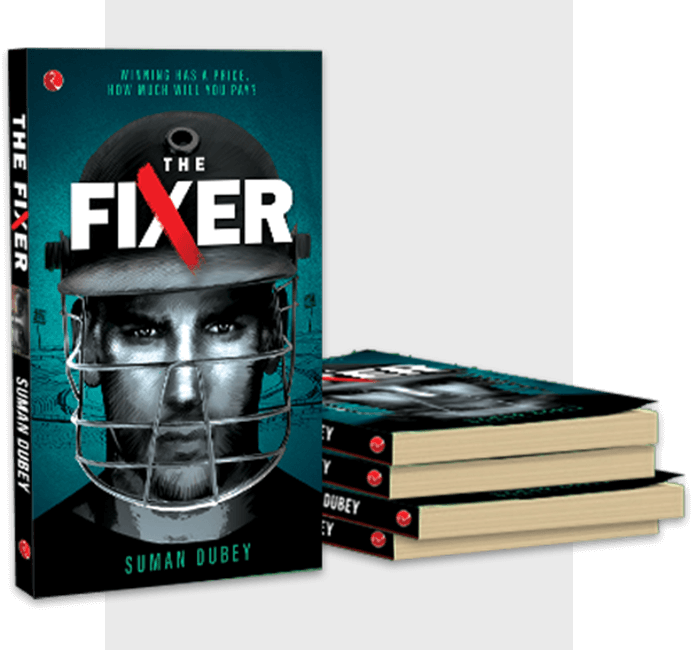
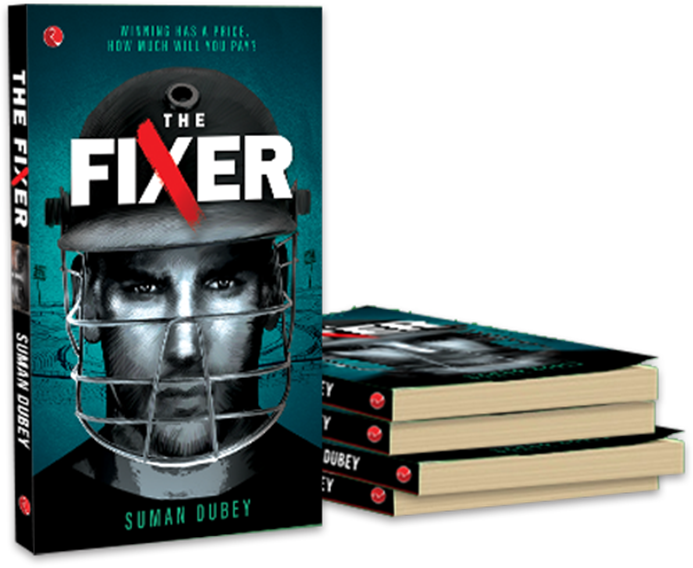
done with AOS

diff --git a/assets/css/style.min.css b/assets/css/style.min.css
@@ -1,2 +1,2 @@
-@import url("https://fonts.googleapis.com/css2?family=Montserrat:wght@400;600;700&display=swap");*{outline:none}html,body,div,span,applet,object,iframe,h1,h2,h3,h4,h5,h6,p,blockquote,pre,a,abbr,acronym,address,big,cite,code,del,dfn,em,img,ins,kbd,q,s,samp,small,strike,strong,sub,sup,tt,var,b,u,i,center,dl,dt,dd,ol,ul,li,fieldset,form,label,legend,table,caption,tbody,tfoot,thead,tr,th,td,article,aside,canvas,details,embed,figure,figcaption,footer,header,hgroup,menu,nav,output,ruby,section,summary,time,mark,audio,video{margin:0;padding:0;border:0;font-size:100%;font:inherit;vertical-align:baseline}article,aside,details,figcaption,figure,footer,header,hgroup,menu,nav,section{display:block}body{line-height:1}ol,ul{list-style:none}blockquote,q{quotes:none}blockquote:before,blockquote:after,q:before,q:after{content:"";content:none}table{border-collapse:collapse;border-spacing:0}.btn{position:relative;padding:14px 22px;background:#ffffff;border:1px solid #000000;border-left-width:4px;border-left-color:#ce1c23;border-radius:0;text-transform:uppercase;font-weight:700;font-size:12px;margin-bottom:16px;min-width:160px;letter-spacing:3px}.btn:hover{background:#ce1c23;border:1px solid #ce1c23;border-left-width:4px;color:#ffffff}.btn--transparent{background:transparent;color:#ffffff;border:1px solid #ffffff;border-left-width:4px}.btn--transparent:hover{background:#ffffff;border:1px solid #ffffff;border-left-width:4px;color:#000000}.font-small{font-size:14px}body{font-family:"Montserrat", sans-serif;color:#626262}h2{font-size:20px;font-weight:700;text-transform:uppercase}h3{font-size:18px}h4{font-size:16px}h5{font-size:14px}p{margin-bottom:1em;line-height:1.9}img{max-width:100%}.font-bold{font-weight:700}.letter-space-5{letter-spacing:3px}section{margin:30px 0}@media (min-width: 992px){section{margin:60px 0}}a,a:hover{color:inherit;text-decoration:none}.header{position:fixed;padding:20px 0;z-index:1;width:100%;transition:0.3s}.header__logo{display:block;width:100px}@media (min-width: 768px){.header__logo{width:160px}}.header.fixed{padding:10px 0;background:#000000}.header.fixed .header__logo{width:80px}@media (min-width: 768px){.header.fixed .header__logo{width:120px}}.header__hamburger{width:40px}@media (min-width: 992px){.header__hamburger{display:none}}.nav{display:none}@media (min-width: 992px){.nav{display:block}}.nav__list{display:flex;color:#ffffff}.nav__anchor{margin:0 15px;color:#ffffff;text-transform:uppercase;font-size:14px}.banner{position:relative}.banner__slider .slick-arrow{position:absolute;top:50%;transform:translateY(-50%);z-index:1;font-size:0;padding:0;width:30px;height:60px;border:none;outline:none}.banner__slider .slick-arrow.slick-prev{left:25px;background:url(../images/prev.png) no-repeat center/contain}.banner__slider .slick-arrow.slick-next{right:25px;background:url(../images/prev.png) no-repeat center/contain;transform:rotate(-180deg) translateY(30px)}.banner__slider .slick-dots{position:absolute;bottom:10px;left:50%;transform:translateX(-50%);display:flex;line-height:0}@media (min-width: 992px){.banner__slider .slick-dots{bottom:20px}}.banner__slider .slick-dots button{background:#ffffff;opacity:0.3;border:none;font-size:0;padding:0;width:12px;height:12px;margin:0 5px;border-radius:50%;outline:none}@media (min-width: 992px){.banner__slider .slick-dots button{width:15px;height:15px}}.banner__slider .slick-dots .slick-active button{opacity:1}.social{display:inline-block}.social__anchor{display:inline-block;background:url(../images/social-sprite.png) no-repeat;width:25px;height:25px;margin-right:5px;background-size:auto 70%}.social__anchor:last-child{margin-right:0}.social__anchor--facebook{background-position:8px}.social__anchor--instagram{background-position:-16px}.social__anchor--twitter{background-position:-40px}.social__anchor--linkdin{background-position:-68px}.review{background:url(../images/review-bg.jpg) no-repeat fixed center/cover;position:relative}.review__slider{margin-bottom:20px}.review__slider .slick-dots{position:absolute;bottom:-100px;left:50%;transform:translateX(-50%);display:flex;line-height:0}.review__slider .slick-dots button{background:#000000;border:none;font-size:0;padding:0;width:14px;height:14px;margin:0 6px;border-radius:50%;outline:none}.review__slider .slick-dots .slick-active button{background:#ce1c23}.review__subheading{line-height:1.6}.review__item{font-size:14px;background-color:#ffffff;border-radius:5px;padding:20px;margin:15px;filter:drop-shadow(0 0 4.5px rgba(193,193,193,0.66))}.review__thumb{width:80px;margin-bottom:10px}.review__author{font-weight:700;margin-bottom:1rem}.review__collon{font-size:42px;font-weight:bold;display:inline-block;margin-bottom:1rem;width:20px;height:20px}.media{background:#660004;color:#ffffff}.media__slider{display:flex;margin-bottom:40px}.media__slider .slick-arrow{position:absolute;top:50%;transform:translateY(-50%);z-index:1;font-size:0;padding:0;width:30px;height:60px;border:none;outline:none}.media__slider .slick-arrow.slick-prev{left:0px;background:url(../images/prev.png) no-repeat center/contain}.media__slider .slick-arrow.slick-next{right:0px;background:url(../images/prev.png) no-repeat center/contain;transform:rotate(-180deg) translateY(30px)}.media__subheading{letter-spacing:6px;margin-bottom:24px;text-transform:uppercase}.media__item{font-size:14px;margin:0 15px}.fixer__logo{width:180px}.fixer__heading{font-weight:600;letter-spacing:4px;text-transform:uppercase;color:#000000;line-height:1.4}.fixer__name{color:#000000;text-transform:uppercase;font-weight:700;font-size:16px;display:inline-block;border-bottom:1px solid;padding-bottom:15px;padding-right:10px}.buyfrom{display:flex;align-items:center}.buyfrom__list{padding-right:20px}.buyfrom__list:last-child{border-left:1px solid;transform:translateY(-8px);padding-left:20px}.buyfrom__icon{width:100px}.footer{border-top:1px solid #ffffff;background:#000000;color:#b6b6b6;font-size:14px;letter-spacing:2px;font-weight:bold}.footer-email{color:#b6b6b6}.rating__star{display:inline-block;background:url(../images/star-fill.png) no-repeat center/contain;width:16px;height:16px}.rating__star--unfill{background:url(../images/star-blank.png) no-repeat center/contain}
+@import url("https://fonts.googleapis.com/css2?family=Montserrat:wght@400;600;700&display=swap");*{outline:none}html,body,div,span,applet,object,iframe,h1,h2,h3,h4,h5,h6,p,blockquote,pre,a,abbr,acronym,address,big,cite,code,del,dfn,em,img,ins,kbd,q,s,samp,small,strike,strong,sub,sup,tt,var,b,u,i,center,dl,dt,dd,ol,ul,li,fieldset,form,label,legend,table,caption,tbody,tfoot,thead,tr,th,td,article,aside,canvas,details,embed,figure,figcaption,footer,header,hgroup,menu,nav,output,ruby,section,summary,time,mark,audio,video{margin:0;padding:0;border:0;font-size:100%;font:inherit;vertical-align:baseline}article,aside,details,figcaption,figure,footer,header,hgroup,menu,nav,section{display:block}body{line-height:1}ol,ul{list-style:none}blockquote,q{quotes:none}blockquote:before,blockquote:after,q:before,q:after{content:"";content:none}table{border-collapse:collapse;border-spacing:0}.btn{position:relative;padding:14px 22px;background:#ffffff;border:1px solid #000000;border-left-width:4px;border-left-color:#ce1c23;border-radius:0;text-transform:uppercase;font-weight:700;font-size:12px;margin-bottom:16px;min-width:160px;letter-spacing:3px}.btn:hover{background:#ce1c23;border:1px solid #ce1c23;border-left-width:4px;color:#ffffff}.btn--transparent{background:transparent;color:#ffffff;border:1px solid #ffffff;border-left-width:4px}.btn--transparent:hover{background:#ffffff;border:1px solid #ffffff;border-left-width:4px;color:#000000}.font-small{font-size:14px}body{font-family:"Montserrat", sans-serif;color:#626262;overflow-x:hidden}h2{font-size:20px;font-weight:700;text-transform:uppercase}h3{font-size:18px}h4{font-size:16px}h5{font-size:14px}p{margin-bottom:1em;line-height:1.9}img{max-width:100%}.font-bold{font-weight:700}.letter-space-5{letter-spacing:3px}section{margin:30px 0}@media (min-width: 992px){section{margin:60px 0}}a,a:hover{color:inherit;text-decoration:none}.header{position:fixed;padding:20px 0;z-index:1;width:100%;transition:0.3s}.header__logo{display:block;width:100px}@media (min-width: 768px){.header__logo{width:160px}}.header.fixed{padding:10px 0;background:#000000}.header.fixed .header__logo{width:80px}@media (min-width: 768px){.header.fixed .header__logo{width:120px}}.header__hamburger{width:40px}@media (min-width: 992px){.header__hamburger{display:none}}.nav{display:none}@media (min-width: 992px){.nav{display:block}}.nav__list{display:flex;color:#ffffff}.nav__anchor{margin:0 15px;color:#ffffff;text-transform:uppercase;font-size:14px}.banner{position:relative}.banner__slider .slick-arrow{position:absolute;top:50%;transform:translateY(-50%);z-index:1;font-size:0;padding:0;width:30px;height:60px;border:none;outline:none}.banner__slider .slick-arrow.slick-prev{left:25px;background:url(../images/prev.png) no-repeat center/contain}.banner__slider .slick-arrow.slick-next{right:25px;background:url(../images/prev.png) no-repeat center/contain;transform:rotate(-180deg) translateY(30px)}.banner__slider .slick-dots{position:absolute;bottom:10px;left:50%;transform:translateX(-50%);display:flex;line-height:0}@media (min-width: 992px){.banner__slider .slick-dots{bottom:20px}}.banner__slider .slick-dots button{background:#ffffff;opacity:0.3;border:none;font-size:0;padding:0;width:12px;height:12px;margin:0 5px;border-radius:50%;outline:none}@media (min-width: 992px){.banner__slider .slick-dots button{width:15px;height:15px}}.banner__slider .slick-dots .slick-active button{opacity:1}.social{display:inline-block}.social__anchor{display:inline-block;background:url(../images/social-sprite.png) no-repeat;width:25px;height:25px;margin-right:5px;background-size:auto 70%}.social__anchor:last-child{margin-right:0}.social__anchor--facebook{background-position:8px}.social__anchor--instagram{background-position:-16px}.social__anchor--twitter{background-position:-40px}.social__anchor--linkdin{background-position:-68px}.review{background:url(../images/review-bg.jpg) no-repeat fixed center/cover;position:relative}.review__slider{margin-bottom:20px}.review__slider .slick-dots{position:absolute;bottom:-100px;left:50%;transform:translateX(-50%);display:flex;line-height:0}.review__slider .slick-dots button{background:#000000;border:none;font-size:0;padding:0;width:14px;height:14px;margin:0 6px;border-radius:50%;outline:none}.review__slider .slick-dots .slick-active button{background:#ce1c23}.review__subheading{line-height:1.6}.review__item{font-size:14px;background-color:#ffffff;border-radius:5px;padding:20px;margin:15px;filter:drop-shadow(0 0 4.5px rgba(193,193,193,0.66))}.review__thumb{width:80px;margin-bottom:10px}.review__author{font-weight:700;margin-bottom:1rem}.review__collon{font-size:42px;font-weight:bold;display:inline-block;margin-bottom:1rem;width:20px;height:20px}.media{background:#660004;color:#ffffff}.media__slider{display:flex;margin-bottom:40px}.media__slider .slick-arrow{position:absolute;top:50%;transform:translateY(-50%);z-index:1;font-size:0;padding:0;width:30px;height:60px;border:none;outline:none}.media__slider .slick-arrow.slick-prev{left:0px;background:url(../images/prev.png) no-repeat center/contain}.media__slider .slick-arrow.slick-next{right:0px;background:url(../images/prev.png) no-repeat center/contain;transform:rotate(-180deg) translateY(30px)}.media__subheading{letter-spacing:6px;margin-bottom:28px;text-transform:uppercase}.media__item{font-size:14px;margin:0 15px}.fixer__logo{width:180px}.fixer__heading{font-weight:600;letter-spacing:4px;text-transform:uppercase;color:#000000;line-height:1.4}.fixer__name{color:#000000;text-transform:uppercase;font-weight:700;font-size:16px;display:inline-block;border-bottom:1px solid;padding-bottom:15px;padding-right:10px}.buyfrom{display:flex;align-items:center}.buyfrom__list{padding-right:20px}.buyfrom__list:last-child{border-left:1px solid;transform:translateY(-8px);padding-left:20px}.buyfrom__icon{width:100px}.footer{border-top:1px solid #ffffff;background:#000000;color:#b6b6b6;font-size:14px;letter-spacing:2px;font-weight:bold}.footer-email{color:#b6b6b6}.rating__star{display:inline-block;background:url(../images/star-fill.png) no-repeat center/contain;width:16px;height:16px}.rating__star--unfill{background:url(../images/star-blank.png) no-repeat center/contain}.book{position:relative}.book__bg{width:80%;margin:auto;display:block}.book__img{position:absolute;left:0%;top:50%;transform:translateY(-50%);width:100%}@media (min-width: 992px){.book__img{width:120%;max-width:initial}}.container{padding-right:30px;padding-left:30px}
 /*# sourceMappingURL=style.min.css.map */

diff --git a/index.html b/index.html
@@ -313,7 +313,21 @@
       <div class="container">
         <div class="row">
           <div class="col-lg-6">
-            <img class="mb-4" src="./assets/images/book.png" alt="" />
+            <div class="book">
+              <img
+                class="mb-4 book__bg"
+                src="./assets/images/bookbg.png"
+                alt=""
+              />
+              <div class="book__img">
+                <img
+                  data-aos="fade-right"
+                  class="mb-4"
+                  src="./assets/images/book.png"
+                  alt=""
+                />
+              </div>
+            </div>
           </div>
           <div class="col-lg-6">
             <img
@@ -372,7 +386,7 @@
           <div class="media__item" data-aos="fade-up" data-aos-delay="0">
             <a href="#">
               <img class="mb-3" src="./assets/images/media1.png" alt="" />
-              <h4 class="mb-2 font-bold">Lorem ipsum dolor sit amet.</h4>
+              <h4 class="mb-3 font-bold">Lorem ipsum dolor sit amet.</h4>
               <h4 class="mb-3 text-uppercase">21 February 2020</h4>
               <p class="mb-0">
                 Lorem ipsum dolor sit amet consectetur adipisicing elit. At,
@@ -383,7 +397,7 @@
           <div class="media__item" data-aos="fade-up" data-aos-delay="100">
             <a href="#">
               <img class="mb-3" src="./assets/images/media1.png" alt="" />
-              <h4 class="mb-2 font-bold">Lorem ipsum dolor sit amet.</h4>
+              <h4 class="mb-3 font-bold">Lorem ipsum dolor sit amet.</h4>
               <h4 class="mb-3 text-uppercase">21 February 2020</h4>
               <p class="mb-0">
                 Lorem ipsum dolor sit amet consectetur adipisicing elit. At,
@@ -394,7 +408,7 @@
           <div class="media__item" data-aos="fade-up" data-aos-delay="150">
             <a href="#">
               <img class="mb-3" src="./assets/images/media1.png" alt="150" />
-              <h4 class="mb-2 font-bold">Lorem ipsum dolor sit amet.</h4>
+              <h4 class="mb-3 font-bold">Lorem ipsum dolor sit amet.</h4>
               <h4 class="mb-3 text-uppercase">21 February 2020</h4>
               <p class="mb-0">
                 Lorem ipsum dolor sit amet consectetur adipisicing elit. At,
@@ -405,7 +419,7 @@
           <div class="media__item" data-aos="fade-up" data-aos-delay="200">
             <a href="#">
               <img class="mb-3" src="./assets/images/media1.png" alt="" />
-              <h4 class="mb-2 font-bold">Lorem ipsum dolor sit amet.</h4>
+              <h4 class="mb-3 font-bold">Lorem ipsum dolor sit amet.</h4>
               <h4 class="mb-3 text-uppercase">21 February 2020</h4>
               <p class="mb-0">
                 Lorem ipsum dolor sit amet consectetur adipisicing elit. At,

diff --git a/assets/scss/style.scss b/assets/scss/style.scss
@@ -180,6 +180,7 @@ table {
 body {
   font-family: "Montserrat", sans-serif;
   color: #626262;
+  overflow-x: hidden;
 }
 
 h2 {
@@ -462,7 +463,7 @@ a:hover {
   }
   &__subheading {
     letter-spacing: 6px;
-    margin-bottom: 24px;
+    margin-bottom: 28px;
     text-transform: uppercase;
   }
   &__item {
@@ -533,4 +534,30 @@ a:hover {
       background: url(../images/star-blank.png) no-repeat center/contain;
     }
   }
+}
+
+
+.book{
+  position: relative;
+  &__bg{
+    width: 80%;
+    margin: auto;
+    display: block;
+  }
+  &__img{
+    position: absolute;
+    left: 0%;
+    top: 50%;
+    transform: translateY(-50%);
+    width: 100%;
+    @media(min-width: 992px){
+      width: 120%;
+      max-width: initial;
+    }
+  }
+}
+
+.container{
+  padding-right: 30px;
+    padding-left: 30px;
 }

diff --git a/assets/js/script.js b/assets/js/script.js
@@ -37,21 +37,19 @@ $(".review__slider").slick({
 });
 
 $(".media__slider").slick({
-    arrows: true,
+    arrows: false,
     mobileFirst: true,
     responsive: [
     {
         breakpoint: 768,
         settings: {
         slidesToShow: 2,
-        arrows: false,
         },
     },
     {
         breakpoint: 992,
         settings: {
         slidesToShow: 3,
-        arrows: false,
         },
     },
     ],
